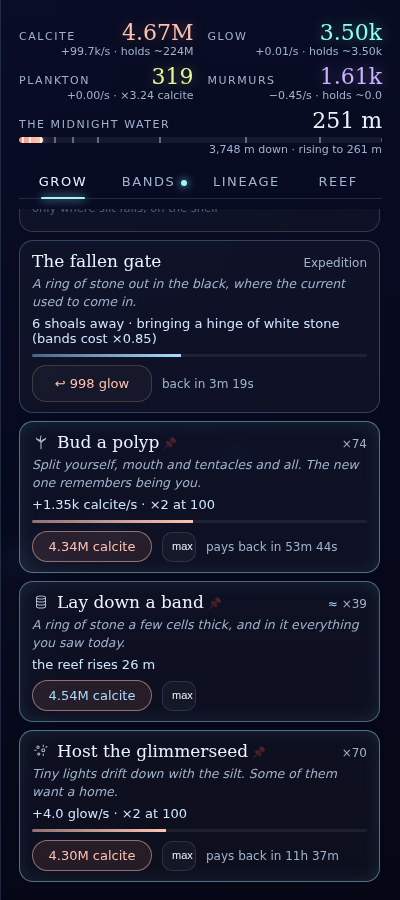
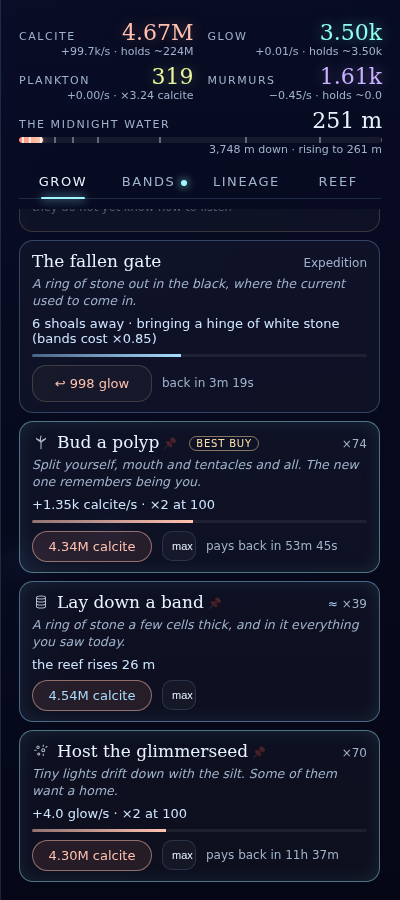
A best-buy mark on the calcite upgrade that pays back soonest

diff --git a/src/game/ui/panel.ts b/src/game/ui/panel.ts
@@ -1754,6 +1754,19 @@ export function createPanel(host: HTMLElement, hooks: PanelHooks) {
         else if (etaTurn === 0 || !x.eta.textContent) setEta(x.eta, Math.max(...parts.map(([k, v]) => timeUntil(s, k, v))));
       }
 
+      // The best buy: the calcite upgrade that pays back soonest (once per round of eta updates).
+      if (etaTurn === 0) {
+        let best: UpgradeId | null = null, bestBack = Infinity;
+        const base = steadyCalciteRate(s);
+        for (const u of UPGRADES) {
+          if (u.currency !== 'calcite' || u.id === 'lattice' || !revealed(s, u.id) || maxed(s, u.id) || !(base > 0)) continue;
+          const g = upgradeGain(s, u.id);
+          const back = g >= 0.0005 ? cost(s, u.id) / (g * base) : Infinity;
+          if (back < bestBack) { bestBack = back; best = u.id; }
+        }
+        for (const [id, c] of cards) c.root.classList.toggle('best', id === best);
+      }
+
       // Upgrade cards.
       for (const u of UPGRADES) {
         const c = cards.get(u.id)!;

diff --git a/src/client/style.css b/src/client/style.css
@@ -224,6 +224,8 @@ body { font-family: var(--text); -webkit-font-smoothing: antialiased; touch-acti
 .shoals.has-idle .level { color: #ffe08a; }
 .job { display: grid; grid-template-columns: 1fr auto 2.2em auto; align-items: center; gap: 8px; padding: 5px 0; border-top: 1px solid rgba(255, 255, 255, 0.05); }
 .job[hidden] { display: none; }
+.card.best:not(.maxed) h3::after { content: 'best buy'; margin-left: 8px; padding: 1px 6px; font-size: 10px; letter-spacing: 0.08em; text-transform: uppercase;
+  border-radius: 999px; border: 1px solid rgba(255, 220, 160, 0.5); color: #ffe0a8; vertical-align: middle; font-family: var(--ui, system-ui); }
 .job-label { display: flex; flex-direction: column; min-width: 0; }
 .job-name { font-size: 14px; }
 .job-feed .job-name { color: var(--plankton); }

diff --git a/docs/PROGRESS.md b/docs/PROGRESS.md
@@ -564,3 +564,4 @@ date, what landed, what is half-done, what's next.
 - The cleaners' ledge (moment 'a') stays on the Twilight reef with three striped shrimp waving their antennae.
 - The Rasp nursery (moment eggs 'a'): a stone lip on the Twilight slope with young Rasp darting round it.
 - Affordable calcite upgrades show 'pays back in …' (price / (gain × steady calcite rate)) where the wait was; the Fan job row stays hidden below the shelf (.job[hidden]).
+- 'Best buy' mark on the calcite upgrade with the shortest payback (recomputed once per round of eta updates).
